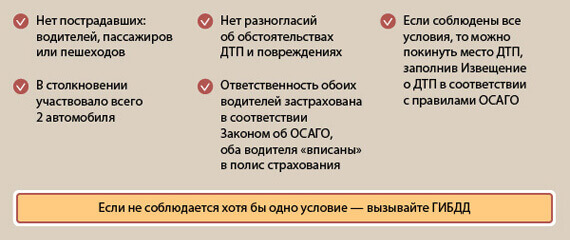
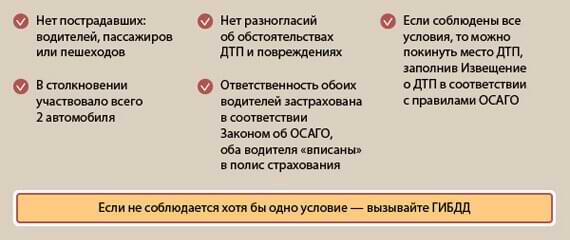
17.05.23

diff --git a/src/Components/Screen/FourthScreen.tsx b/src/Components/Screen/FourthScreen.tsx
@@ -101,7 +101,7 @@ const FourthScreen = () => {
 
             <Slider {...settings} className="sliderSlider">
                 <Box sx={styleSliderItems}>
-                    <img style={{width: "100%", height: "236px"}} src="/post1.png" alt="post1"/>
+                    <img style={{width: "100%", height: "236px"}} src="/post1.jpg" alt="post1"/>
 
 
                     <div style={{display: "flex", justifyContent: "end", marginRight: "20px"}}>
@@ -163,7 +163,7 @@ const FourthScreen = () => {
                     </div>
                 </Box>
                 <Box sx={styleSliderItems}>
-                    <img style={{width: "100%", height: "236px"}} src="/post2.png" alt="post2"/>
+                    <img style={{width: "100%", height: "236px"}} src="/post2.jpg" alt="post2"/>
 
                     <div style={{display: "flex", justifyContent: "end", marginRight: "20px"}}>
                         <div style={{

diff --git a/src/Components/Screen/SixthScreen.tsx b/src/Components/Screen/SixthScreen.tsx
@@ -128,7 +128,7 @@ const SixthScreen = () => {
                                 alt="whatsapp"/></a>
                             <a href="tg://resolve?domain=PravoNaPrava44" target="_blank">
                                 <img style={{width: "52px", height: "52px"}}
-                                     src="/Telegram_logo.svg.png"
+                                     src="/telegram.png"
                                      alt="telegram"/></a>
                         </div>
                 </div>

diff --git a/src/Components/Screen/SecondScreen.tsx b/src/Components/Screen/SecondScreen.tsx
@@ -62,7 +62,7 @@ const SecondScreen = () => {
             </div>
 
             <div className="secondImages">
-                <img style={{width: "322px", height: "467px"}} src="/secondImages.png"/>
+                <img style={{width: "322px", height: "467px"}} src="/secondImages.jpg"/>
             </div>
 
 
